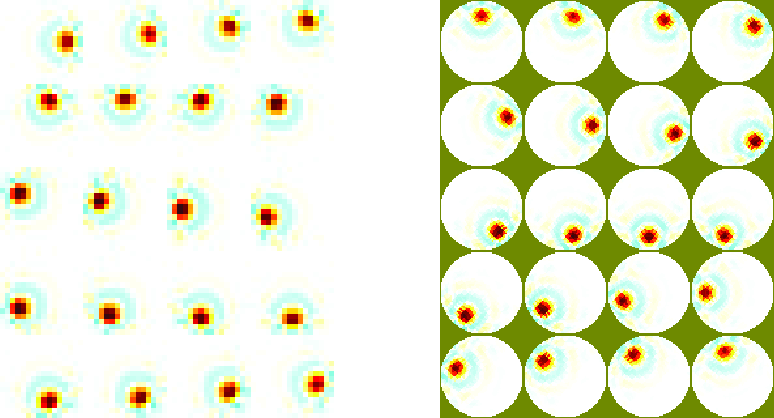
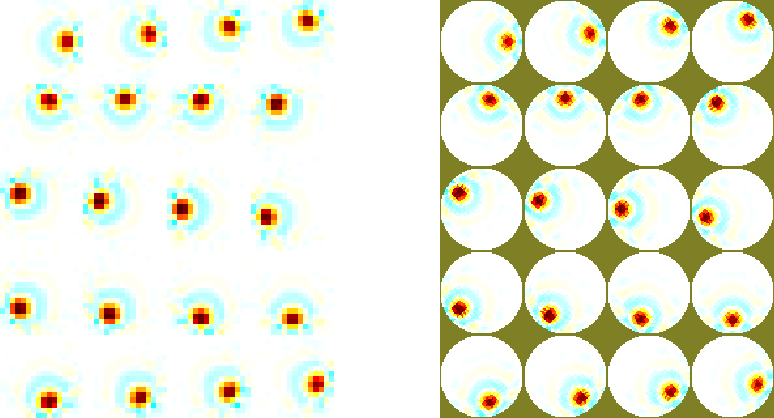
fix orientation
git-svn-id: svn+ssh://svn.code.sf.net/p/eidors3d/code/trunk@3192 82006732-fb7e-4a22-9f28-86a212cce563

diff --git a/htdocs/tutorial/dual_model/square_mesh06.m b/htdocs/tutorial/dual_model/square_mesh06.m
@@ -2,8 +2,6 @@
 
 % Create a classic 2D inverse model
 imdl= mk_common_model('c2c2',16);
-% Rotate electrodes to match
-imdl.fwd_model.electrode([5:-1:1,16:-1:6]) = imdl.fwd_model.electrode;
 imdl.RtR_prior = @prior_gaussian_HPF;
 imdl.solve = @inv_solve_diff_GN_one_step;
 imdl.hyperparameter.value= 0.01;
